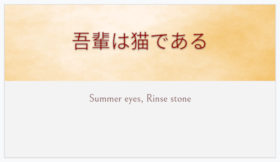
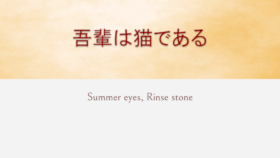
* スライドのデザインを変更

diff --git a/assets/css/custom.css b/assets/css/custom.css
@@ -1,10 +1,18 @@
+img.icon
+{
+  margin: 4px;
+}
+
 img.author
 {
   float: right;
   margin: 0 0 8px 8px;
 }
 
-img.icon
+img.gallery
 {
-  margin: 4px;
+  display: block;
+  margin: 0 auto;
+  padding: 8px;
+  box-shadow: 0 0 10px 5px rgba(0,0,0,0.1);
 }

diff --git a/index.md b/index.md
@@ -80,8 +80,9 @@ title: Taro ODASHIMA
 
 #### [Google Slides テンプレート](https://docs.google.com/presentation/d/1CKcu-bZdQ6zQevIFVKtMqiKlnxQMGP9anAR2B_s39Vo)
 
-[![Google Slides テンプレート]({{ site.path.img }}slide@800px.png){: srcset="{{ site.path.img }}slide@280px.png 320w, {{ site.path.img }}slide@560px.png 640w, {{ site.path.img }}slide@800px.png"}](https://docs.google.com/presentation/d/1CKcu-bZdQ6zQevIFVKtMqiKlnxQMGP9anAR2B_s39Vo)
+[![Google Slides テンプレート]({{ site.path.img }}slide@800px.png){: .gallery srcset="{{ site.path.img }}slide@280px.png 320w, {{ site.path.img }}slide@560px.png 640w, {{ site.path.img }}slide@800px.png 800w"}](https://docs.google.com/presentation/d/1CKcu-bZdQ6zQevIFVKtMqiKlnxQMGP9anAR2B_s39Vo)
 
 デザインセンス0の人間がスライドテンプレートを作ってみました。
-
 背景とフォントをちょっと工夫するだけで意外とイケるもんです。
+
+ビンテージっぽさを意識して作ったのですが、全然ビンテージになりませんでした。
